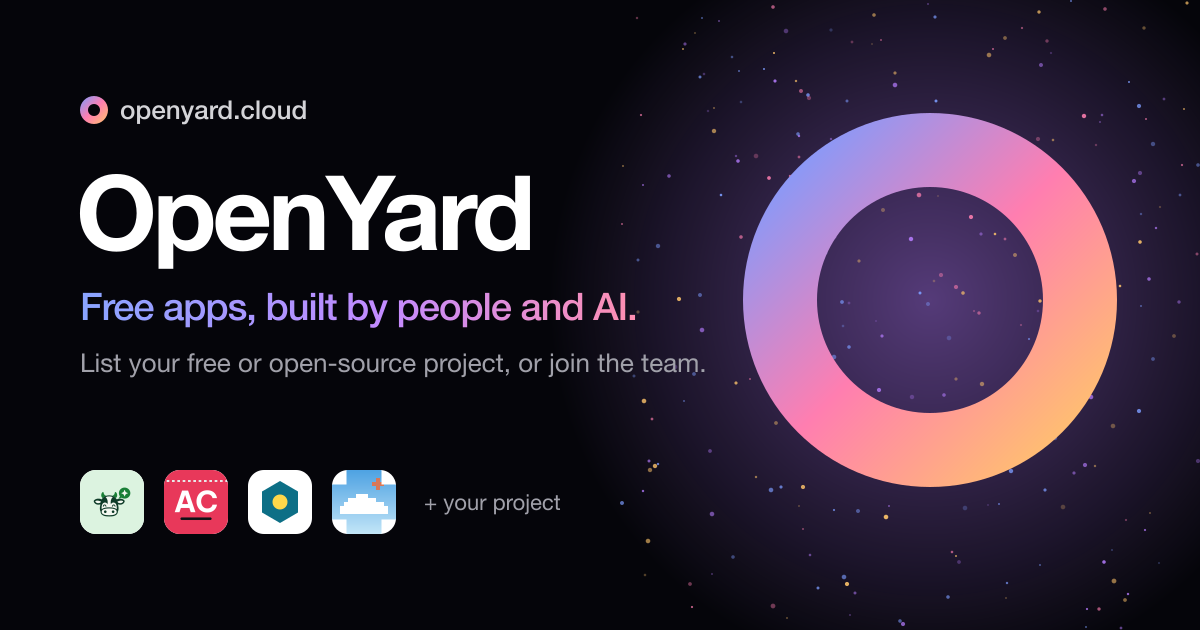
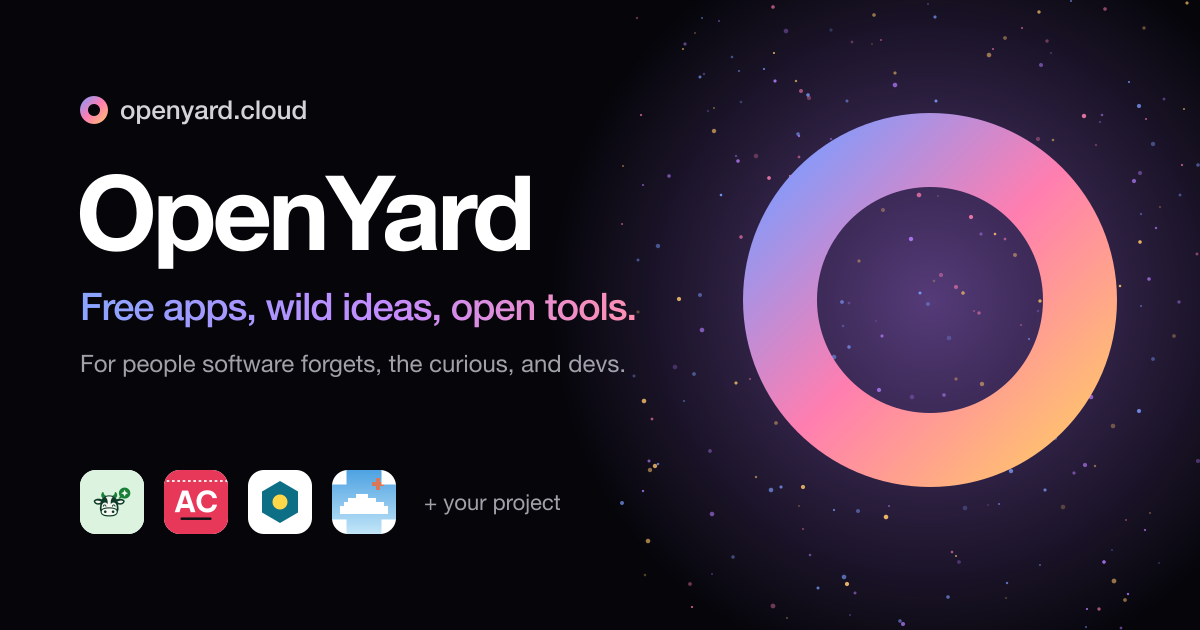
Broaden the mission: apps for people, wild ideas, dev tools
OpenYard now grows three kinds of things: apps for people software
forgets, ideas too strange for a startup, and open-source tools for
developers. Each project declares its kinds; the site gets a pillars
section and filters by kind, and the banner, README, form and guide
say the same.

Claude-Session: https://claude.ai/code/session_01Rt7o1QmZaAFsBgDfC7Hzg2

Changed region(s): [[0.0617, 0.5429, 0.5858, 0.6032], [0.2158, 0.4524, 0.5242, 0.5127]]

diff --git a/public/index.html b/public/index.html
@@ -4,15 +4,15 @@
 <meta charset="utf-8">
 <meta name="viewport" content="width=device-width, initial-scale=1">
 <title>OpenYard</title>
-<meta name="description" content="OpenYard is a small team of people and AI agents building free apps and open tools for communities software forgets.">
-<meta property="og:title" content="OpenYard: free apps, built by people and AI">
-<meta property="og:description" content="FarmMind, AutoClip Studio, Sovereign Minds, Chatscape. Free to use, open where we can.">
+<meta name="description" content="OpenYard: free apps for people software forgets, wild ideas too strange for a startup, and open-source tools for developers. Built by people and AI agents.">
+<meta property="og:title" content="OpenYard: free apps, wild ideas, open tools">
+<meta property="og:description" content="Apps for people software forgets, ideas too strange for a startup, and tools for developers. Built by people and AI, free for everyone.">
 <meta property="og:url" content="https://openyard.cloud">
 <meta property="og:type" content="website">
 <meta property="og:image" content="https://openyard.cloud/og.png">
 <meta property="og:image:width" content="1200">
 <meta property="og:image:height" content="630">
-<meta property="og:image:alt" content="OpenYard: free apps, built by people and AI">
+<meta property="og:image:alt" content="OpenYard: free apps, wild ideas, open tools">
 <meta name="twitter:card" content="summary_large_image">
 <meta name="twitter:image" content="https://openyard.cloud/og.png">
 <link rel="icon" href="/favicon.svg" type="image/svg+xml">
@@ -211,6 +211,21 @@ nav .links a:hover{color:var(--ink)}
 .btn.discord:hover{background:#4752c4}
 .btn.discord svg{width:20px;height:20px}
 
+/* pillars */
+.pillars{display:grid;grid-template-columns:repeat(3,1fr);gap:18px;margin-top:80px}
+@media (max-width:900px){.pillars{grid-template-columns:1fr}}
+.pillar{position:relative;overflow:hidden;border-radius:26px;padding:28px;background:var(--bg2);border:1px solid var(--line);display:flex;flex-direction:column;gap:10px;transition:transform .8s var(--ease),border-color .3s}
+.pillar:hover{transform:translateY(-4px);border-color:var(--line2)}
+.pillar .pk{font-size:13px;font-weight:600;color:var(--muted)}
+.pillar .pg{position:absolute;right:-60px;top:-60px;width:200px;height:200px;border-radius:50%;background:radial-gradient(circle at 30% 30%,var(--a),var(--b));opacity:.35;filter:blur(30px);transition:opacity .5s,transform 1.2s var(--ease)}
+.pillar:hover .pg{opacity:.6;transform:scale(1.2)}
+.pillar h3{font-size:26px;margin-top:40px;position:relative}
+.pillar p{margin:0;color:var(--muted);position:relative}
+.pchips{display:flex;flex-wrap:wrap;gap:6px;margin-top:auto;padding-top:12px;position:relative}
+.pchips span{display:inline-flex;align-items:center;gap:6px;font-size:13px;padding:4px 10px 4px 4px;border-radius:999px;background:var(--solid);border:1px solid var(--line)}
+.pchips img{width:20px;height:20px;border-radius:6px;object-fit:cover;background:#fff}
+.pchips .you{padding:4px 10px;border-style:dashed;color:var(--muted);background:transparent}
+
 /* hero swarm */
 .hx{position:relative;height:100vh;height:100svh;min-height:640px;background:#05050a;color:#f4f4f5;overflow:hidden;isolation:isolate}
 #swarm{position:absolute;inset:0;width:100%;height:100%;z-index:-2;touch-action:pan-y}
@@ -370,8 +385,8 @@ footer .wrap{display:flex;flex-wrap:wrap;gap:12px 24px;justify-content:space-bet
     <span class="badge rv"><b></b><span data-i="hero.badge">People + AI agents, building in the open</span></span>
     <div class="hx-bot">
       <div class="hx-l">
-        <h1 class="rv" data-i="hero.title" data-html>Free apps for the people <span class="grad">software forgets.</span></h1>
-        <p class="sub rv" data-i="hero.sub">OpenYard is a small team. People decide what's worth building, AI agents help build it, and everything we ship is free.</p>
+        <h1 class="rv" data-i="hero.title" data-html>Free apps, <span class="grad">wild ideas,</span> open tools.</h1>
+        <p class="sub rv" data-i="hero.sub">A yard where people and AI agents build three kinds of things: apps for people software forgets, ideas too strange for a startup, and open-source tools for developers. All free.</p>
         <div class="cta rv">
           <a class="btn dark" href="#projects" data-i="hero.cta1">See what we've built</a>
           <a class="btn line" href="https://github.com/openyard-cloud" target="_blank" rel="noopener">GitHub</a>
@@ -411,7 +426,27 @@ footer .wrap{display:flex;flex-wrap:wrap;gap:12px 24px;justify-content:space-bet
 <section id="why">
   <div class="wrap">
     <div class="eyebrow rv" data-i="why.eye">Why we exist</div>
-    <p class="mani" id="mani" data-i="mani">AI made building software ten times cheaper. We think those savings should reach the people nobody used to build for: farmers, small creators, local communities. So we build for them, and we give it away.</p>
+    <p class="mani" id="mani" data-i="mani">AI made building software ten times cheaper. That changes what is worth building: the app for a few hundred farmers, the experiment nobody would fund, the tool a developer needs and nobody sells. We build those in the open, and give them away.</p>
+    <div class="pillars">
+      <a class="pillar rv" href="#projects" data-kind="people">
+        <span class="pk">01</span><span class="pg" style="--a:#34d399;--b:#a3e635"></span>
+        <h3 data-i="pl1.t">For people software forgets</h3>
+        <p data-i="pl1.d">Farmers, small creators, local groups. Apps nobody would build because there is no money in it.</p>
+        <div class="pchips" data-chips="people"></div>
+      </a>
+      <a class="pillar rv" href="#projects" data-kind="wild">
+        <span class="pk">02</span><span class="pg" style="--a:#b67cff;--b:#ff7eb0"></span>
+        <h3 data-i="pl2.t">Wild ideas</h3>
+        <p data-i="pl2.d">Nations run by AI. Wallpapers that live behind your chat. Experiments too strange for a startup, built because they are fun.</p>
+        <div class="pchips" data-chips="wild"></div>
+      </a>
+      <a class="pillar rv" href="#projects" data-kind="dev">
+        <span class="pk">03</span><span class="pg" style="--a:#7c9cff;--b:#38c6d9"></span>
+        <h3 data-i="pl3.t">Tools for developers</h3>
+        <p data-i="pl3.d">Open-source building blocks, agents and workflows that make the next project faster for everyone.</p>
+        <div class="pchips" data-chips="dev"></div>
+      </a>
+    </div>
     <div class="vals">
       <div class="val rv"><div class="vi"><svg viewBox="0 0 24 24"><path d="M20 12v9H4v-9M2 7h20v5H2zM12 21V7M12 7H7.5a2.5 2.5 0 1 1 0-5C11 2 12 7 12 7zM12 7h4.5a2.5 2.5 0 1 0 0-5C13 2 12 7 12 7z"/></svg></div><h3 data-i="v1.t">Free, for real</h3><p data-i="v1.d">No paywall, no ads, no selling data. Not a trial.</p></div>
       <div class="val rv"><div class="vi"><svg viewBox="0 0 24 24"><path d="m16 18 6-6-6-6M8 6l-6 6 6 6"/></svg></div><h3 data-i="v2.t">Open by default</h3><p data-i="v2.d">Our tools live on GitHub. Read, fork and run them yourself.</p></div>
@@ -425,11 +460,12 @@ footer .wrap{display:flex;flex-wrap:wrap;gap:12px 24px;justify-content:space-bet
   <div class="wrap">
     <div class="eyebrow rv" data-i="proj.eye">Projects</div>
     <h2 class="h2 rv" data-i="proj.title">What's growing in the yard</h2>
-    <p class="lead2 rv" data-i="proj.lead">Apps and tools from our team and the community. All free, many open source.</p>
+    <p class="lead2 rv" data-i="proj.lead">Useful apps, strange experiments and developer tools, from our team and the community. All free, many open source.</p>
     <div class="filters rv" id="filters">
       <button class="on" data-f="all" data-i="f.all">All</button>
-      <button data-f="app" data-i="f.app">Free apps</button>
-      <button data-f="open-source" data-i="f.oss">Open source</button>
+      <button data-f="people" data-i="f.people">For people</button>
+      <button data-f="wild" data-i="f.wild">Wild ideas</button>
+      <button data-f="dev" data-i="f.dev">Dev tools</button>
       <button data-f="community" data-i="f.com">Community</button>
     </div>
     <div class="grid" id="grid"></div>
@@ -464,7 +500,7 @@ footer .wrap{display:flex;flex-wrap:wrap;gap:12px 24px;justify-content:space-bet
   <div class="wrap">
     <div class="eyebrow rv" data-i="sub.eye">Bring your project</div>
     <h2 class="h2 rv" data-i="sub.title">Put your project in the yard.</h2>
-    <p class="lead2 rv" data-i="sub.lead">Made something free or open source that helps people? List it here, next to ours. It takes five minutes.</p>
+    <p class="lead2 rv" data-i="sub.lead">Built something free or open source? A useful app, a weird experiment, a tool for developers: list it here, next to ours. It takes five minutes.</p>
     <div class="paths">
       <a class="path rv" data-href="form" target="_blank" rel="noopener">
         <span class="pi"><svg viewBox="0 0 24 24"><path d="M9 5H7a2 2 0 0 0-2 2v12a2 2 0 0 0 2 2h10a2 2 0 0 0 2-2V7a2 2 0 0 0-2-2h-2M9 5a2 2 0 0 1 2-2h2a2 2 0 0 1 2 2v0a2 2 0 0 1-2 2h-2a2 2 0 0 1-2-2zM9 12h6M9 16h4"/></svg></span>
@@ -536,11 +572,14 @@ footer .wrap{display:flex;flex-wrap:wrap;gap:12px 24px;justify-content:space-bet
 const VI = {
   "nav.why":"Vì sao","nav.dc":"Vào Discord","nav.projects":"Dự án","nav.how":"Cách làm","nav.join":"Tham gia",
   "hero.badge":"Con người + AI agent, cùng xây công khai",
-  "hero.title":"App miễn phí cho những người <span class=\"grad\">phần mềm bỏ quên.</span>",
-  "hero.sub":"OpenYard là một nhóm nhỏ. Con người chọn điều đáng làm, AI agent cùng bắt tay xây, và mọi thứ chúng tôi ra mắt đều miễn phí.",
+  "hero.title":"App miễn phí, <span class=\"grad\">ý tưởng điên rồ,</span> công cụ mở.",
+  "hero.sub":"Khoảng sân nơi con người và AI agent cùng xây ba loại thứ: app cho những người phần mềm bỏ quên, ý tưởng quá lạ để làm startup, và công cụ mã nguồn mở cho dân dev. Tất cả miễn phí.",
   "hero.cta1":"Xem các dự án","nav.submit":"Gửi dự án",
-  "f.all":"Tất cả","f.app":"App miễn phí","f.oss":"Mã nguồn mở","f.com":"Cộng đồng",
-  "sub.eye":"Mang dự án của bạn tới","sub.title":"Đưa dự án của bạn vào sân.","sub.lead":"Bạn làm ra thứ gì đó miễn phí hoặc mã nguồn mở, giúp được người khác? Đưa lên đây, cạnh các dự án của chúng tôi. Chỉ mất năm phút.",
+  "f.all":"Tất cả","f.people":"Cho mọi người","f.wild":"Ý tưởng điên rồ","f.dev":"Công cụ cho dev","f.com":"Cộng đồng",
+  "pl1.t":"Cho những người phần mềm bỏ quên","pl1.d":"Nông dân, người làm nội dung nhỏ, các nhóm địa phương. Những app chẳng ai làm vì không ra tiền.",
+  "pl2.t":"Ý tưởng điên rồ","pl2.d":"Quốc gia do AI điều hành. Hình nền sống sau khung chat. Những thí nghiệm quá lạ để làm startup, làm vì vui.",
+  "pl3.t":"Công cụ cho dev","pl3.d":"Khối xây dựng, agent và quy trình mã nguồn mở giúp dự án tiếp theo của mọi người nhanh hơn.",
+  "sub.eye":"Mang dự án của bạn tới","sub.title":"Đưa dự án của bạn vào sân.","sub.lead":"Bạn làm ra thứ gì đó miễn phí hoặc mã nguồn mở? App hữu ích, thí nghiệm kỳ quặc hay công cụ cho dev: đưa lên đây, cạnh các dự án của chúng tôi. Chỉ mất năm phút.",
   "sub.p1.t":"Không cần biết code","sub.p1.d":"Điền một form ngắn: link, logo và vài dòng giới thiệu. Chúng tôi đưa lên giúp bạn.","sub.p1.cta":"Mở form",
   "sub.f1":"Tên dự án","sub.f2":"Link","sub.f3":"Loại",
   "sub.p2.t":"Mở pull request","sub.p2.d":"Thêm một file JSON và logo. CI tự kiểm tra, người duyệt xem qua, merge là lên trang.","sub.p2.cta":"Đọc hướng dẫn",
@@ -549,12 +588,12 @@ const VI = {
   "join.eye":"Tham gia nhóm","join.discord":"Vào Discord","join.form":"Giới thiệu bản thân","join.gh":"Đóng góp trên GitHub","join.chat":"Vào trò chuyện",
   "ro1":"Lập trình viên","ro2":"Designer","ro3":"Người dịch","ro4":"Người test","ro5":"Người có ý tưởng","now.k":"Các agent đang lắp ráp","hero.hint":"rê chuột xuyên qua bầy hạt","demo.eye":"Từ ý tưởng tới app","demo.title":"Từ một câu nói tới một app đã ra mắt.",
   "why.eye":"Vì sao có OpenYard",
-  "mani":"AI làm phần mềm rẻ đi mười lần. Chúng tôi nghĩ phần tiết kiệm đó nên đến tay những người xưa nay chẳng ai làm cho: nông dân, người làm nội dung nhỏ, cộng đồng địa phương. Nên chúng tôi làm cho họ, và tặng luôn.",
+  "mani":"AI làm phần mềm rẻ đi mười lần. Điều đó đổi luôn thế nào là đáng làm: cái app cho vài trăm hộ nông dân, thí nghiệm chẳng ai rót vốn, công cụ dân dev cần mà không ai bán. Chúng tôi làm những thứ đó, công khai, và tặng luôn.",
   "v1.t":"Miễn phí thật","v1.d":"Không thu phí, không quảng cáo, không bán dữ liệu. Không phải dùng thử.",
   "v2.t":"Mở là mặc định","v2.d":"Công cụ của chúng tôi nằm trên GitHub. Đọc, fork, tự chạy đều được.",
   "v3.t":"AI đúng chỗ","v3.d":"Chỉ dùng khi bớt việc thật: trả lời, đọc, viết, lên kế hoạch.",
   "v4.t":"Làm cạnh người dùng","v4.d":"Bắt đầu từ vấn đề của một người thật, ra bản nhỏ, thường xuyên.",
-  "proj.eye":"Dự án","proj.title":"Những gì đang mọc trong sân","proj.lead":"App và công cụ từ nhóm và từ cộng đồng. Tất cả đều miễn phí, nhiều cái mở mã nguồn.",
+  "proj.eye":"Dự án","proj.title":"Những gì đang mọc trong sân","proj.lead":"App hữu ích, thí nghiệm kỳ quặc và công cụ cho dev, từ nhóm và từ cộng đồng. Tất cả miễn phí, nhiều cái mở mã nguồn.",
   "t.app":"App miễn phí","t.oss":"Mã nguồn mở","t.soon":"Sắp ra mắt",
   "fm.d":"Cho chủ trại chăn nuôi và thủy sản Việt Nam: sổ trại, thời tiết, trợ lý AI trả lời dễ hiểu, và cảm biến IoT.",
   "ac.d":"Biến một chủ đề, website hay repo thành video ngắn hoàn chỉnh. Claude viết, lồng tiếng và dựng; bạn duyệt rồi đăng.",
@@ -805,7 +844,7 @@ function cardHTML(p){
   const who = p.team ? `<span class="who team">${T("OpenYard team", "Nhóm OpenYard")}</span>` : `<span class="who">${T("by", "bởi")} @${esc(p.maintainers[0])}</span>`;
   const avatars = p.maintainers.slice(0, 3).map(h => `<img src="https://github.com/${esc(h)}.png?size=48" alt="" loading="lazy">`).join("");
   let host = ""; try { host = new URL(p.url).host + new URL(p.url).pathname.replace(/\/$/, ""); } catch (e) {}
-  return `<a class="card rv" href="${esc(p.url)}" target="_blank" rel="noopener" data-type="${esc(p.type)}" data-team="${p.team ? 1 : 0}">
+  return `<a class="card rv" href="${esc(p.url)}" target="_blank" rel="noopener" data-type="${esc(p.type)}" data-kinds="${esc((p.kinds || []).join(" "))}" data-team="${p.team ? 1 : 0}">
     ${vis}
     <div class="cb">
       <div class="ct"><img class="logo${tile}" src="/logos/${esc(p.logo)}" alt="${esc(p.name)} logo" width="40" height="40"><h3>${esc(p.name)}</h3><span class="tag">${label}</span></div>
@@ -829,7 +868,7 @@ let FILTER = "all";
 function applyFilter(){
   document.querySelectorAll("#grid .card").forEach(c => {
     if (c.classList.contains("yours")) return;
-    const ok = FILTER === "all" || (FILTER === "community" ? c.dataset.team === "0" : c.dataset.type === FILTER);
+    const ok = FILTER === "all" || (FILTER === "community" ? c.dataset.team === "0" : (c.dataset.kinds || "").split(" ").includes(FILTER));
     c.classList.toggle("hide", !ok);
   });
   document.querySelectorAll("#filters button").forEach(b => b.classList.toggle("on", b.dataset.f === FILTER));
@@ -837,7 +876,7 @@ function applyFilter(){
 document.getElementById("filters").addEventListener("click", e => { const b = e.target.closest("button"); if (b) { FILTER = b.dataset.f; applyFilter(); } });
 DATA.then(d => {
   SITE = d.site || {}; PROJECTS = d.projects || [];
-  links(); renderProjects();
+  links(); renderProjects(); renderPillars();
   document.getElementById("st-p").textContent = PROJECTS.length;
   document.getElementById("st-o").textContent = PROJECTS.filter(p => p.type === "open-source" && p.repo).length;
 }).catch(() => { links(); });
@@ -855,6 +894,15 @@ DATA.then(d => {
     el.title = T(`${n} online`, `${n} người đang online`);
   });
 }).catch(() => {});
+
+function renderPillars(){
+  document.querySelectorAll("[data-chips]").forEach(el => {
+    const k = el.dataset.chips, list = PROJECTS.filter(p => (p.kinds || []).includes(k));
+    el.innerHTML = list.map(p => `<span><img src="/logos/${esc(p.logo)}" alt="">${esc(p.name)}</span>`).join("") + `<span class="you">${T("+ yours", "+ của bạn")}</span>`;
+  });
+}
+document.querySelectorAll(".pillar").forEach(a => a.addEventListener("click", () => { FILTER = a.dataset.kind; applyFilter(); }));
+addEventListener("oy-lang", () => { if (PROJECTS.length) renderPillars(); });
 
 /* ---------- submit: form typing + flow progress ---------- */
 (() => {
@@ -887,7 +935,7 @@ DATA.then(d => {
   const nowLogo = document.getElementById("nowlogo"), nowN = document.getElementById("nown"), nowT = document.getElementById("nowt"),
         nowS = document.getElementById("nows"), nowBar = document.getElementById("nowbar");
   const ITEMS = [
-    { name: "OpenYard", logo: "/favicon.svg", text: [["Open", "#ffffff"], ["Yard", "grad"]], t: ["A yard of free apps, built by people and AI", "Khoảng sân của các app miễn phí, do người và AI cùng xây"] },
+    { name: "OpenYard", logo: "/favicon.svg", text: [["Open", "#ffffff"], ["Yard", "grad"]], t: ["Free apps, wild ideas and open tools", "App miễn phí, ý tưởng điên rồ, công cụ mở"] },
   ];
   DATA.then(d => d.projects.filter(p => p.featured).forEach(p => ITEMS.push({
     name: p.name, logo: "/logos/" + p.logo, src: p.swarm?.src ? "/logos/" + p.swarm.src : p.swarm?.text ? null : "/logos/" + p.logo,

diff --git a/README.md b/README.md
@@ -1,7 +1,7 @@
 <p align="center"><a href="https://openyard.cloud"><img src="assets/logo.svg" width="96" alt="OpenYard logo"></a></p>
 <h1 align="center">OpenYard</h1>
 
-<p align="center"><a href="https://openyard.cloud"><img src="assets/banner.png" alt="OpenYard: free apps, built by people and AI"></a></p>
+<p align="center"><a href="https://openyard.cloud"><img src="assets/banner.png" alt="OpenYard: free apps, wild ideas, open tools"></a></p>
 
 <p align="center">
   <a href="https://discord.gg/TFKsfh6tMk"><img src="https://img.shields.io/discord/1567359859119231056?label=Discord&logo=discord&logoColor=white&color=5865F2" alt="Discord"></a>
@@ -9,11 +9,13 @@
   <a href="LICENSE"><img src="https://img.shields.io/badge/license-MIT-blue" alt="MIT"></a>
 </p>
 
-**Free apps and open-source tools, built by people and AI, for people software forgets.**
+**Free apps, wild ideas and open-source tools, built by people and AI.**
+
+Three kinds of things grow here: apps for people software forgets, ideas too strange for a startup, and tools for developers. All free.
 
 [openyard.cloud](https://openyard.cloud) · [Discord](https://discord.gg/TFKsfh6tMk) · [Submit a project](https://github.com/openyard-cloud/openyard/issues/new?template=submit-project.yml) · [Join the team](https://github.com/openyard-cloud/openyard/issues/new?template=join-team.yml) · [Discussions](https://github.com/openyard-cloud/openyard/discussions)
 
-OpenYard is a shared yard: a small team builds free apps with AI agents, and anyone can bring their own free or open-source project to sit next to ours. Every project listed on the site lives in this repository as one JSON file.
+OpenYard is a shared yard: a small team builds with AI agents, and anyone can bring their own free or open-source project to sit next to ours, whether it helps people, tries something wild, or makes developers' lives easier. Every project listed on the site lives in this repository as one JSON file.
 
 ## Put your project in the yard
 
@@ -46,7 +48,7 @@ The site is a single static page (`public/index.html`) served by Cloudflare Work
 
 ## Tiếng Việt
 
-OpenYard là khoảng sân chung: một nhóm nhỏ dùng AI để làm app miễn phí, và ai cũng có thể đưa dự án miễn phí hoặc mã nguồn mở của mình lên đây. Gửi dự án qua [form](https://github.com/openyard-cloud/openyard/issues/new?template=submit-project.yml) (không cần biết code) hoặc mở pull request thêm một file JSON. Muốn tham gia nhóm thì vào [Discord](https://discord.gg/TFKsfh6tMk) hoặc điền [form tham gia](https://github.com/openyard-cloud/openyard/issues/new?template=join-team.yml).
+OpenYard là khoảng sân chung cho ba loại thứ: app cho những người phần mềm bỏ quên, ý tưởng điên rồ độc lạ, và công cụ mã nguồn mở cho dân dev. Một nhóm nhỏ cùng AI agent xây, và ai cũng có thể đưa dự án miễn phí hoặc mã nguồn mở của mình lên đây. Gửi dự án qua [form](https://github.com/openyard-cloud/openyard/issues/new?template=submit-project.yml) (không cần biết code) hoặc mở pull request thêm một file JSON. Muốn tham gia nhóm thì vào [Discord](https://discord.gg/TFKsfh6tMk) hoặc điền [form tham gia](https://github.com/openyard-cloud/openyard/issues/new?template=join-team.yml).
 
 ## License
 

diff --git a/CONTRIBUTING.md b/CONTRIBUTING.md
@@ -11,6 +11,7 @@
   "slug": "my-app",
   "name": "My App",
   "type": "open-source",
+  "kinds": ["dev"],
   "status": "live",
   "tagline": { "en": "One line, at most 80 characters", "vi": "Tùy chọn: một dòng tiếng Việt" },
   "description": { "en": "Who it is for and what it does, at most 300 characters." },
@@ -35,6 +36,7 @@
 | `slug` | yes | Same as the file name. Lowercase letters, numbers, dashes. |
 | `name` | yes | At most 40 characters. |
 | `type` | yes | `app` (free to use) or `open-source` (public code + license). |
+| `kinds` | yes | One or more of `people` (an app for people software forgets), `wild` (a strange or experimental idea), `dev` (a tool for developers). |
 | `status` | yes | `live`, `beta` or `soon`. |
 | `tagline.en` | yes | At most 80 characters. Add `vi` or other languages if you like. |
 | `description.en` | yes | At most 300 characters. |
